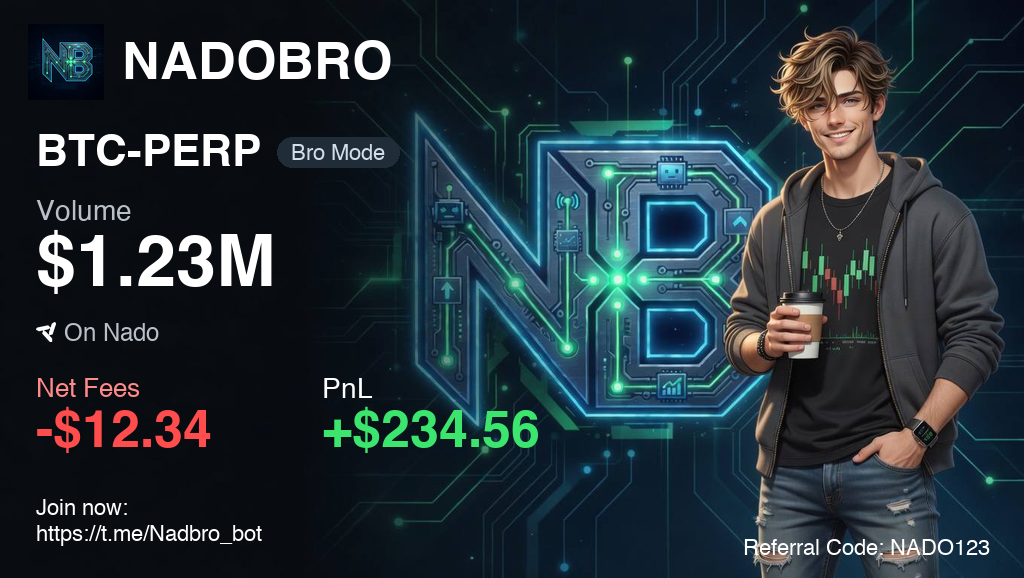
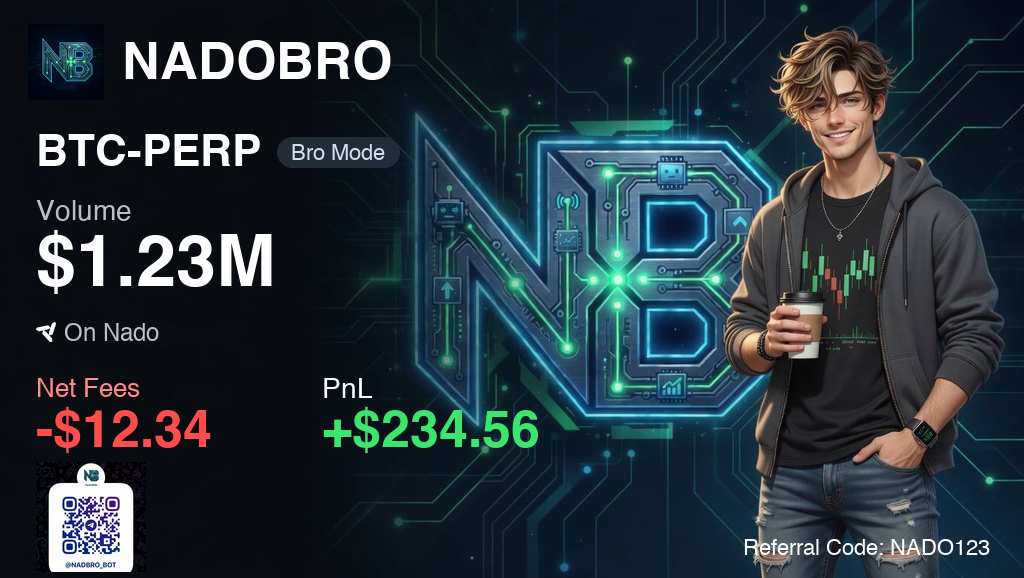
feat(pnl-card): replace Join now footer with Telegram-bot QR code
Users wanted a scannable QR in the bottom-left instead of the two-line
"Join now: https://t.me/Nadbro_bot" text. The QR is more compact,
shareable on social, and removes a typo trap on the URL.

Renderer (src/nadobro/services/pnl_card.py)
- Drop _Y_FOOTER1 / _Y_FOOTER2 / _SZ_FOOTER layout constants and the
  draw.text() calls for "Join now:" / the URL.
- New _X_QR=36, _Y_QR=462, _SZ_QR=110 box anchored at bottom-left;
  bottom edge ~572 leaves 6px from the canvas bottom.
- New _QR_CANDIDATES list: tries "Nadobro tg QR code.jpeg" first, then
  PNG/JPG fallbacks under assets/cards/.
- New _resolve_qr_path() + _paste_telegram_qr(canvas) helpers —
  composite the QR centred inside the footer box. Silently skipped if
  the asset is missing so the renderer stays robust.
- The right-aligned Referral Code line is unchanged.

Asset
- assets/cards/Nadobro tg QR code.jpeg (591×591 PNG/JPEG with the NB
  monogram, "NADOBRO" wordmark, QR pattern, and @NADBRO_BOT handle).

Tests (tests/services/test_pnl_card.py)
- test_qr_resolver_prefers_jpeg_then_png: locks in the resolution
  order so the designer-supplied JPEG always wins.
- test_qr_paste_is_compositied_at_footer_box: paints onto a black
  canvas, asserts pixels inside the QR box change while pixels far
  outside stay (0,0,0) — catches bleed or misalignment regressions.
- test_qr_missing_does_not_crash: monkeypatches the candidate tuple
  to a missing file and confirms generate_pnl_card still returns a
  valid PNG.
[…]

Changed region(s): [[0.0312, 0.7785, 0.25, 0.9965]]

diff --git a/src/nadobro/services/pnl_card.py b/src/nadobro/services/pnl_card.py
@@ -64,10 +64,10 @@ _SZ_FEES_VALUE = 52
 _SZ_PNL_LABEL = 28
 _SZ_PNL_VALUE = 52
 
-# Footer + referral
-_Y_FOOTER1 = 498       # "Join now:"
-_Y_FOOTER2 = 524       # "https://t.me/Nadbro_bot"
-_SZ_FOOTER = 22
+# Footer — QR code (replaces former "Join now: …" two-line text) + referral
+_X_QR = 36
+_Y_QR = 462           # top edge; bottom = _Y_QR + _SZ_QR ≈ 572 (6px from canvas bottom)
+_SZ_QR = 110
 _X_REFERRAL_RIGHT = 990   # right edge for "Referral Code: …" (anchored right)
 _Y_REFERRAL = 538
 _SZ_REFERRAL = 22
@@ -111,6 +111,14 @@ _LOGO_CANDIDATES: tuple[Path, ...] = (
 _NADO_ICON_CANDIDATES: tuple[Path, ...] = (
     LOGOS_DIR / "nado.png",
     ASSETS / "logo" / "nado.png",
+)
+
+# Telegram-bot QR code rendered in the bottom-left footer (replaces the
+# former "Join now: …" two-line text).
+_QR_CANDIDATES: tuple[Path, ...] = (
+    CARDS_DIR / "Nadobro tg QR code.jpeg",
+    CARDS_DIR / "nadobro_bot_qr.png",
+    CARDS_DIR / "nadobro_bot_qr.jpg",
 )
 
 
@@ -346,6 +354,37 @@ def _paste_logo(canvas: Image.Image) -> None:
     canvas.alpha_composite(logo, dest=(box_x, box_y))
 
 
+def _resolve_qr_path() -> Path | None:
+    for p in _QR_CANDIDATES:
+        if p.exists():
+            return p
+    return None
+
+
+def _paste_telegram_qr(canvas: Image.Image) -> None:
+    """Composite the Telegram-bot QR code in the bottom-left footer.
+
+    Pasted as a square at ``(_X_QR, _Y_QR)`` sized ``_SZ_QR``. The source
+    JPEG already includes the NB logo / NADOBRO wordmark / @NADBRO_BOT
+    handle baked in, so users only need to scan the visible QR pattern.
+
+    Silently skipped if the asset is missing — keeps the renderer robust
+    in environments without the QR file.
+    """
+    qr_path = _resolve_qr_path()
+    if qr_path is None:
+        return
+    try:
+        qr = Image.open(qr_path).convert("RGBA")
+    except (OSError, ValueError):
+        return
+    qr.thumbnail((_SZ_QR, _SZ_QR), Image.LANCZOS)
+    # Centre inside the QR box so non-square sources still align cleanly.
+    box_x = _X_QR + (_SZ_QR - qr.width) // 2
+    box_y = _Y_QR + (_SZ_QR - qr.height) // 2
+    canvas.alpha_composite(qr, dest=(box_x, box_y))
+
+
 # ---------------------------------------------------------------------------
 # Public entry point
 # ---------------------------------------------------------------------------
@@ -389,7 +428,6 @@ def generate_pnl_card(data: dict) -> bytes:
     f_fees_val = _get_font(_SZ_FEES_VALUE, bold=True)
     f_pnl_lbl = _get_font(_SZ_PNL_LABEL, bold=False)
     f_pnl_val = _get_font(_SZ_PNL_VALUE, bold=True)
-    f_footer = _get_font(_SZ_FOOTER, bold=False)
     f_ref = _get_font(_SZ_REFERRAL, bold=False)
 
     # 1) Header — NB box logo + "NADOBRO" wordmark
@@ -437,9 +475,10 @@ def generate_pnl_card(data: dict) -> bytes:
     )
     draw.text((_X_PNL_COL, _Y_FEES_VALUE), pnl, fill=pnl_color, font=f_pnl_val)
 
-    # 6) Footer — "Join now:" / URL stacked, referral right-aligned
-    draw.text((_X_LEFT, _Y_FOOTER1), "Join now:", fill=WHITE, font=f_footer)
-    draw.text((_X_LEFT, _Y_FOOTER2), "https://t.me/Nadbro_bot", fill=WHITE, font=f_footer)
+    # 6) Footer — Telegram-bot QR (left, replaces former "Join now: …" text);
+    #    referral code right-aligned at the bottom. The QR image is the only
+    #    join CTA on the card now — users scan it to open the bot.
+    _paste_telegram_qr(img)
 
     referral = data.get("referral_code")
     if referral:

diff --git a/tests/services/test_pnl_card.py b/tests/services/test_pnl_card.py
@@ -134,3 +134,48 @@ def test_loaded_font_is_truetype_when_system_fonts_available():
     font = pc._get_font(48, bold=True)
     # If we got a TTF the size attribute is set; the bitmap default has no .size.
     assert getattr(font, "size", None) is not None or font.__class__.__name__ == "FreeTypeFont"
+
+
+def test_qr_resolver_prefers_jpeg_then_png():
+    """Telegram-bot QR is the bottom-left CTA; resolver tries the canonical
+    designer-provided JPEG first, then PNG fallbacks."""
+    chosen = pc._resolve_qr_path()
+    # The repo ships "Nadobro tg QR code.jpeg" by default.
+    assert chosen is not None
+    assert chosen.name == "Nadobro tg QR code.jpeg"
+
+
+def test_qr_paste_is_compositied_at_footer_box(monkeypatch, tmp_path):
+    """Paste helper writes pixels inside the (_X_QR, _Y_QR) → (+_SZ_QR, +_SZ_QR)
+    box and leaves the rest of the canvas untouched."""
+    from PIL import Image as _Image
+
+    canvas = _Image.new("RGBA", (pc.CANVAS_W, pc.CANVAS_H), (0, 0, 0, 255))
+    pc._paste_telegram_qr(canvas)
+    # Sample a pixel inside the QR box — should no longer be pure black.
+    inside = canvas.getpixel((pc._X_QR + pc._SZ_QR // 2, pc._Y_QR + pc._SZ_QR // 2))
+    # Sample a pixel far away (top-right corner) — should stay (0,0,0,255).
+    outside = canvas.getpixel((pc.CANVAS_W - 4, 4))
+    assert inside != (0, 0, 0, 255), "QR didn't write into the footer box"
+    assert outside == (0, 0, 0, 255), "QR bled outside the footer box"
+
+
+def test_qr_missing_does_not_crash(monkeypatch, tmp_path):
+    """Renderer must keep working even if the QR asset disappears."""
+    monkeypatch.setattr(pc, "_QR_CANDIDATES", (tmp_path / "no_qr.jpeg",))
+    out = pc.generate_pnl_card(_sample_data())
+    assert out.startswith(PNG_HEADER)
+    assert _open_png(out).size == (1024, 578)
+
+
+def test_legacy_footer_text_constants_are_removed():
+    """Guard against accidental re-introduction of the old "Join now:" /
+    URL two-line footer. The new footer is the QR code only."""
+    # If these layout constants come back, the legacy text will render again.
+    assert not hasattr(pc, "_Y_FOOTER1")
+    assert not hasattr(pc, "_Y_FOOTER2")
+    assert not hasattr(pc, "_SZ_FOOTER")
+    # The QR layout constants must exist instead.
+    assert hasattr(pc, "_X_QR")
+    assert hasattr(pc, "_Y_QR")
+    assert hasattr(pc, "_SZ_QR")
